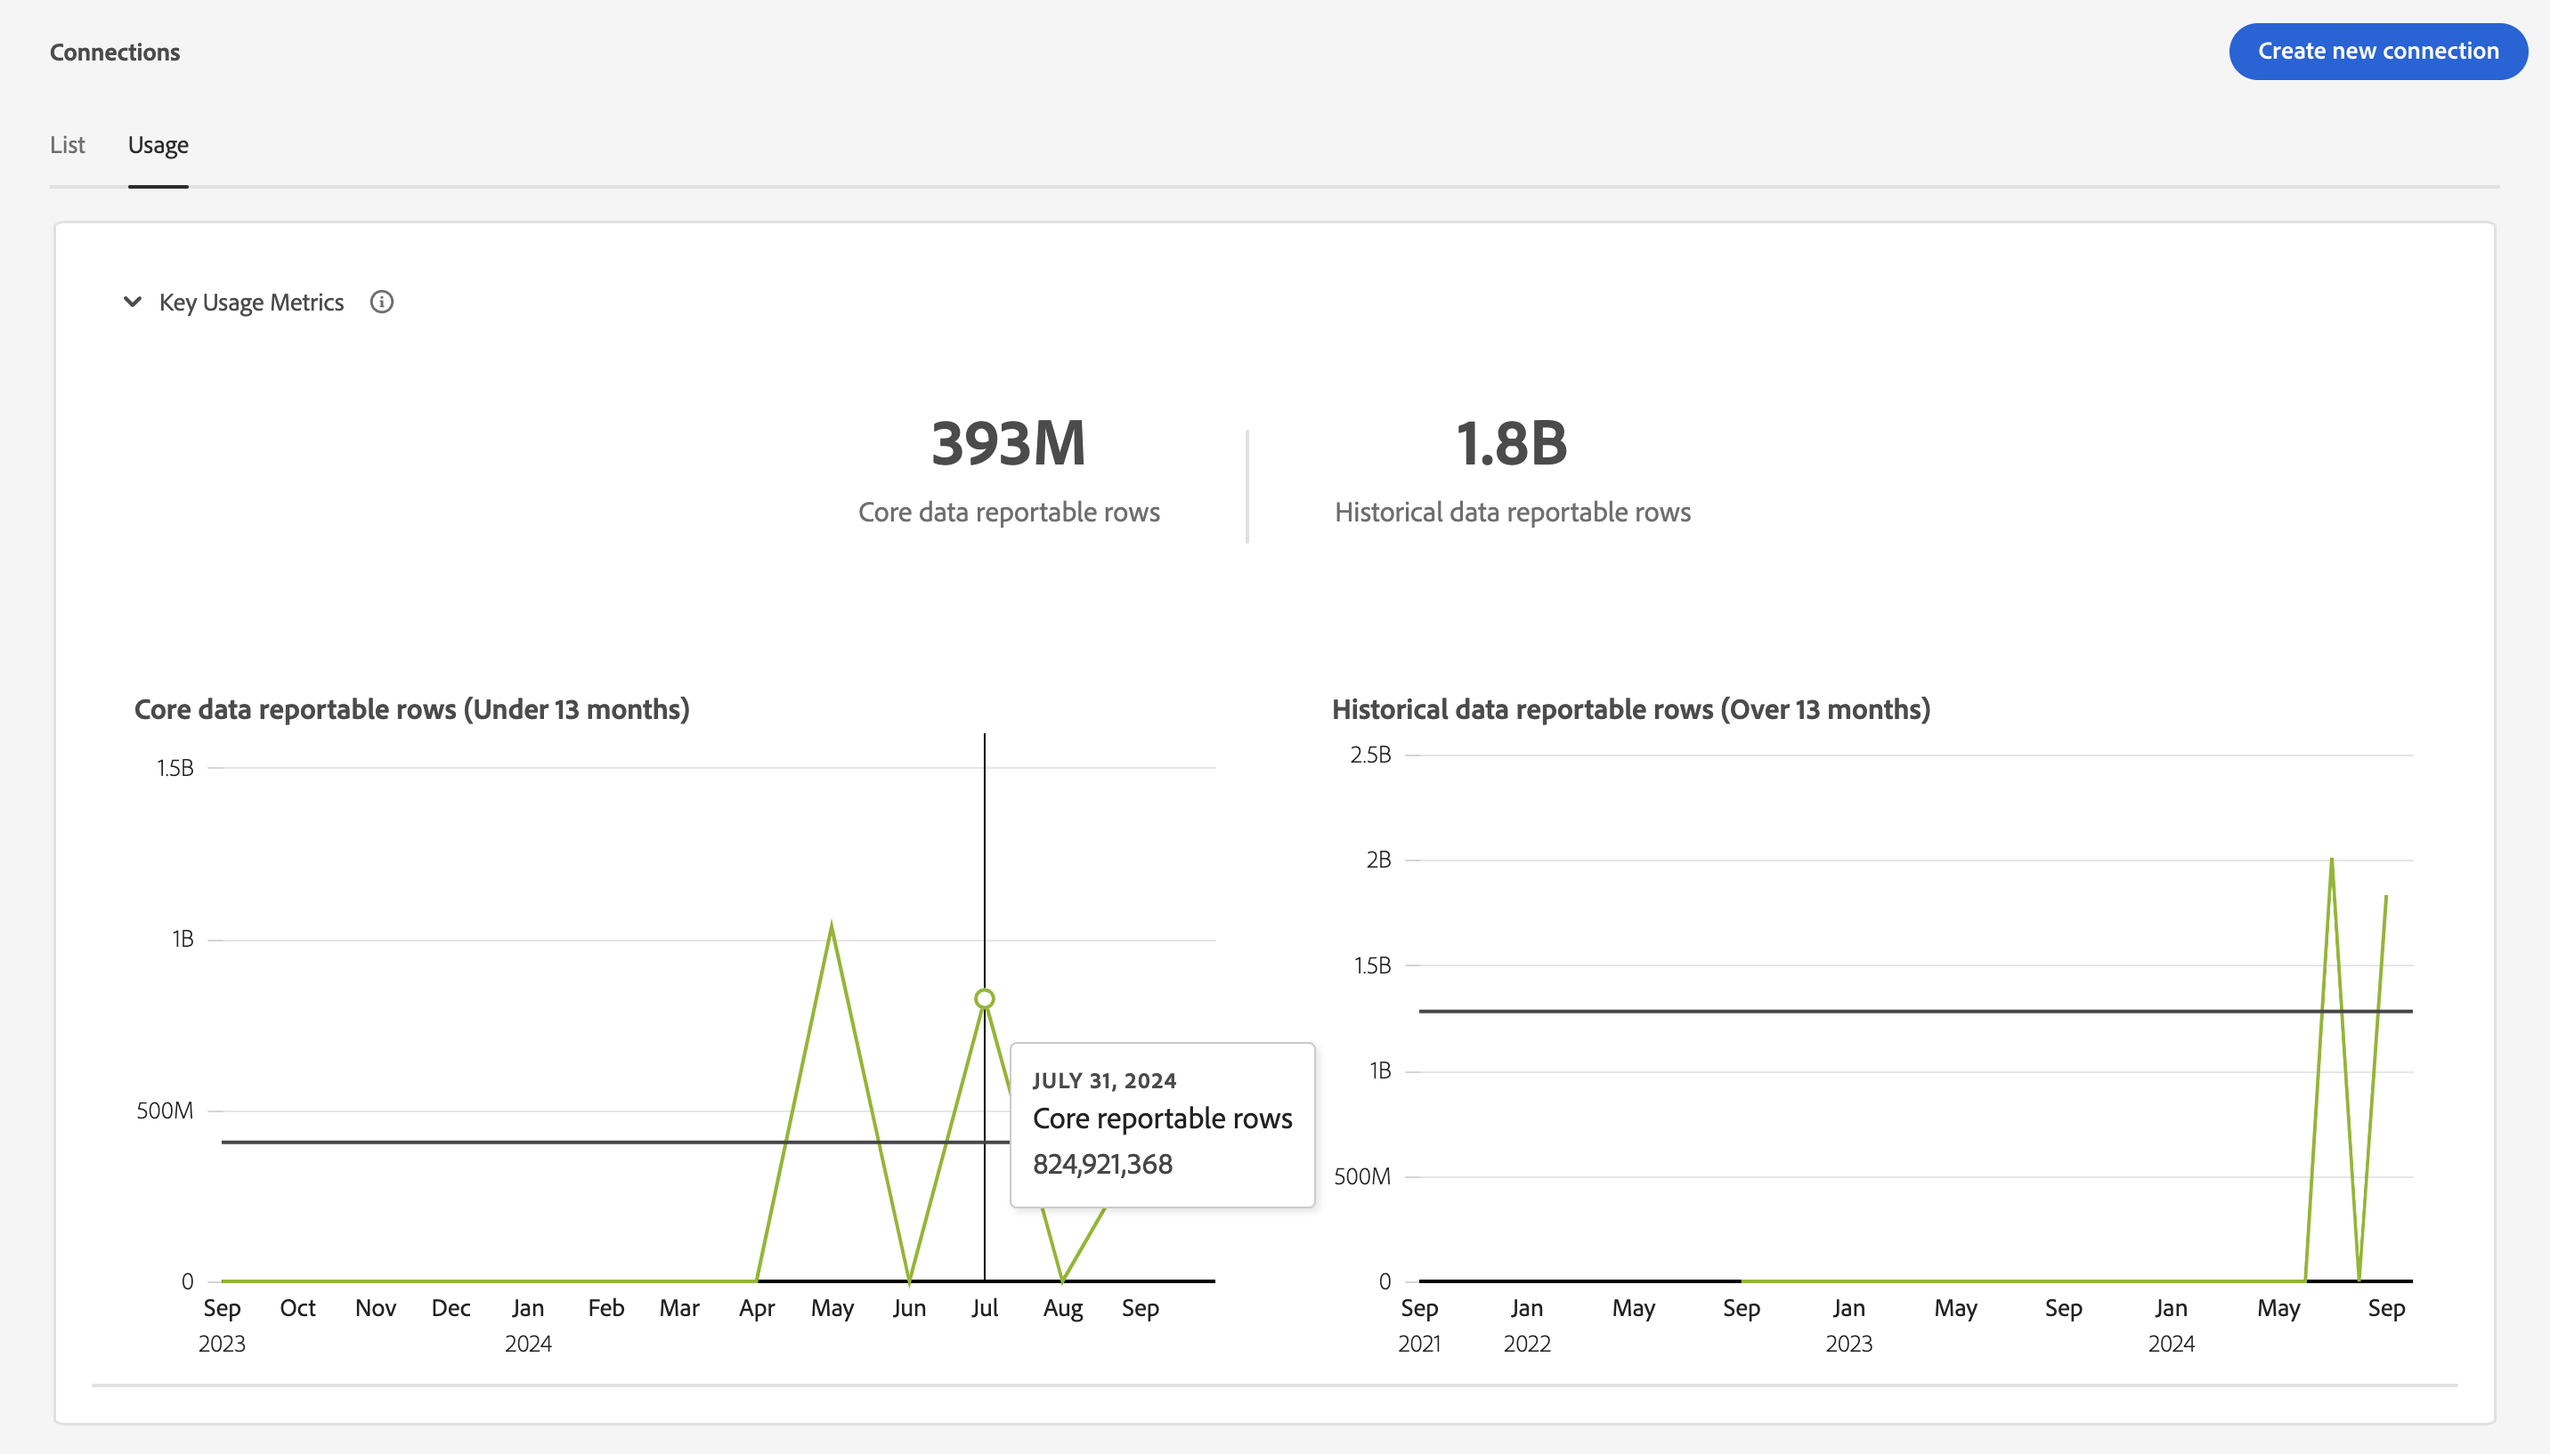
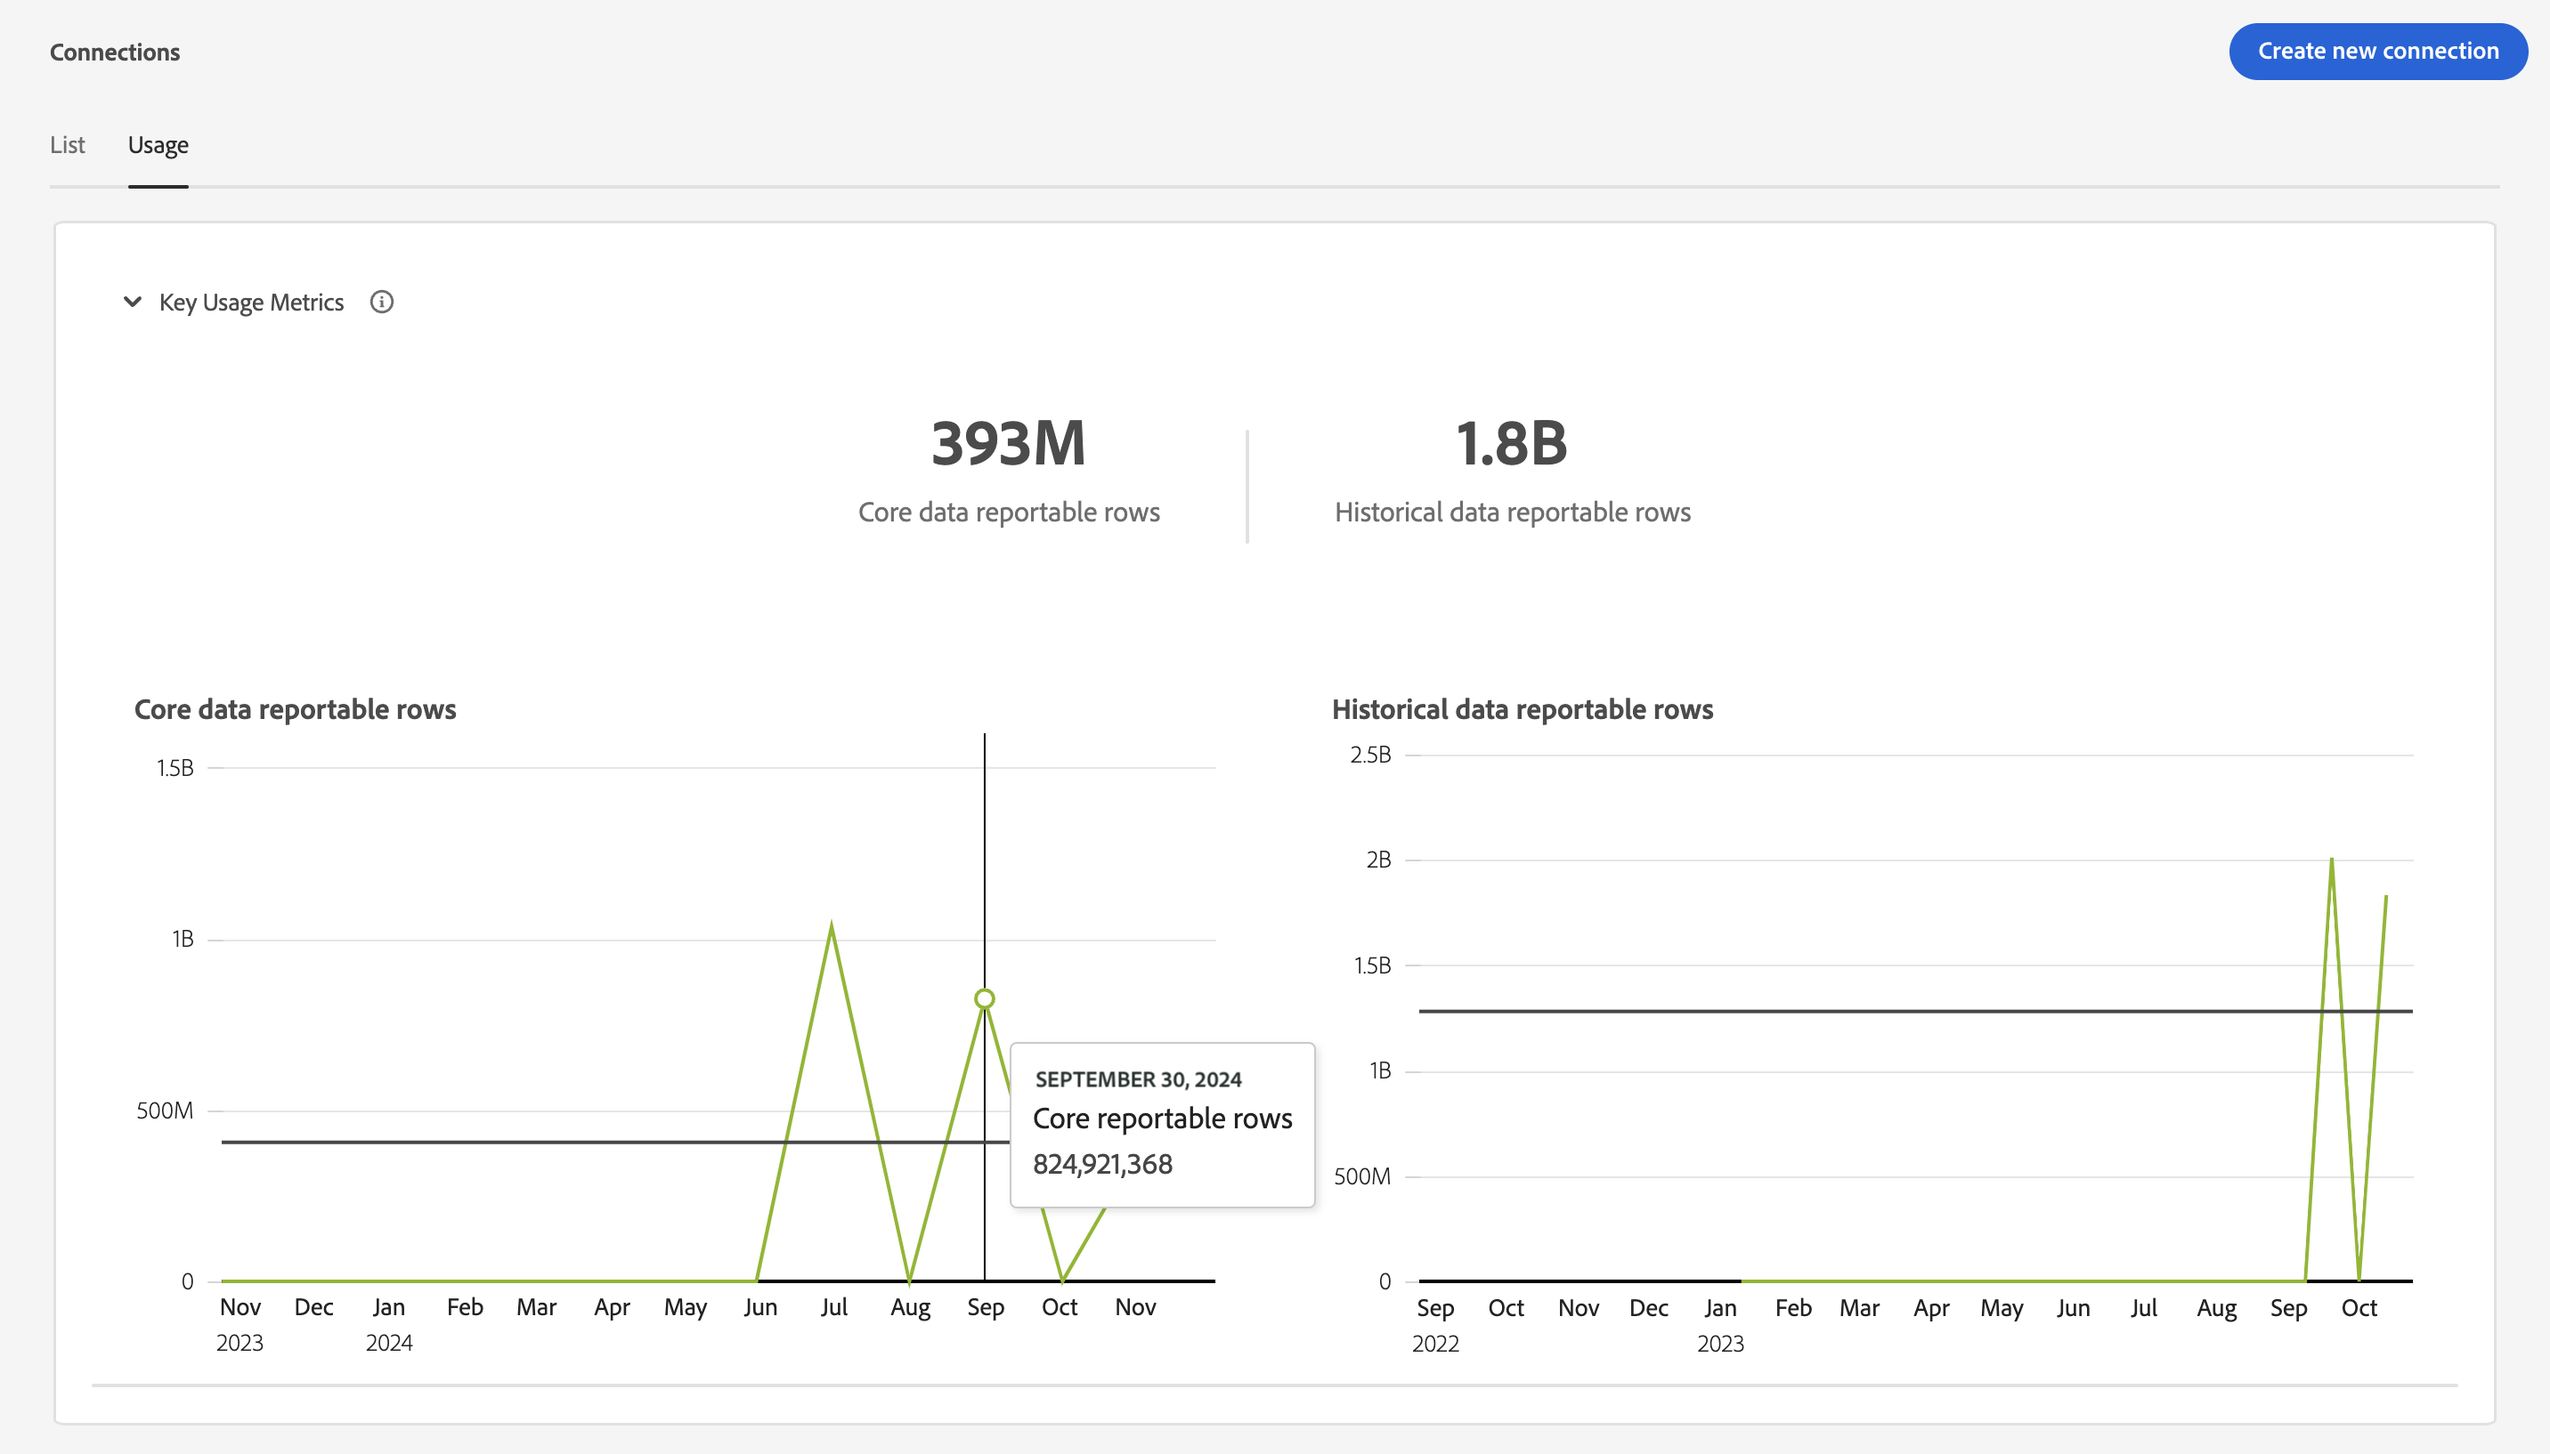
Updates

diff --git a/help/connections/manage-connections.md b/help/connections/manage-connections.md
@@ -227,13 +227,13 @@ The Usage interface consists of two panels:
   
   The panel displays two visualizations: 
   
-  * **[!UICONTROL Core data reportable rows (Under 13 months)]**.
+  * **[!UICONTROL Core data reportable rows]**.
 
-    How many reportable rows do you have over the last 13 months. The summary number is the number of reportable rows for the last month (in the example August 2023 - September 2023). When you hover over any data point, the popup shows the number of reportable rows for that specific month (in the example July 2024).
+    How many reportable rows do you have over the last 13 months. The summary number is the number of reportable rows for the last month (in the example November 2023 - November 2024). When you hover over any data point, the popup shows the number of reportable rows for that specific month (in the example September 2024).
     
-  * **[!UICONTROL Historical data reportable rows (Over 13 months)]**.
+  * **[!UICONTROL Historical data reportable rows]**.
 
-    How many reportable rows do you have for the months starting from your retention window up until the current month. The summary number is the total number of historical reportable rows for that period. In case the start of you retention window is September 2021, the example reports reportable rows from January 2021 - September 2024. When you hover over any data point, the popup shows the number of reportable rows for that specific month.
+    How many reportable rows do you have for the months starting from your retention window up until now, minus the last 13 months. The summary number is the total number of historical reportable rows for that period. In case the start of you retention window is September 2022, the example reports reportable rows from September 2022 - October 2023. When you hover over any data point, the popup shows the number of reportable rows for that specific month.
 
 
   ![Key Usage Metrics](assets/usage-key-usage-metrics.png)
